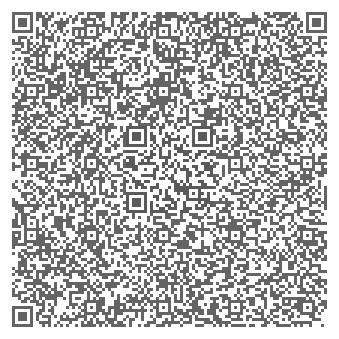
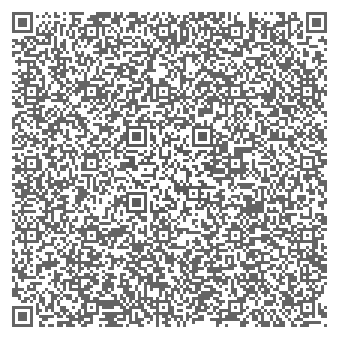
add   ∈ ₥ 🍪 ɉ 🕯     🎄 🕒 𝔭 ዙ 🎄 ฿ ∈ ✝     ᚸ ᛖ 🎄 ى     ℰ Đ 🕯 ✝ 🕯 ❄  ₦      🎅 🦌 🎁

diff --git a/examples/Examples.html b/examples/Examples.html
@@ -2,13 +2,15 @@
 <table border=1 style='font-family:"Arial"; font-size:70%'><tr><th>Crypto function <th> Minimum school grade <th width=40%> Encrypted output <th> Command line
 <tr><td>emoji_alphabet()<td style="text-align:center">1<td>Ṭ&nbsp;⭕&nbsp;₱&nbsp;&nbsp;&nbsp;&nbsp;&nbsp;💰&nbsp;📧&nbsp;©&nbsp;ᚱ&nbsp;📧&nbsp;Ṭ&nbsp;❗&nbsp;&nbsp;&nbsp;&nbsp;&nbsp;ᵺ&nbsp;∈&nbsp;&nbsp;&nbsp;&nbsp;&nbsp;💰&nbsp;௰&nbsp;∈&nbsp;モ&nbsp;ʦ&nbsp;&nbsp;&nbsp;&nbsp;&nbsp;🅰&nbsp;ᚱ&nbsp;∈&nbsp;&nbsp;&nbsp;&nbsp;&nbsp;ዙ&nbsp;🆔&nbsp;Đ&nbsp;∈&nbsp;И&nbsp;&nbsp;&nbsp;&nbsp;&nbsp;ᶙ&nbsp;ℕ&nbsp;ԃ&nbsp;📧&nbsp;®&nbsp;&nbsp;&nbsp;&nbsp;&nbsp;ℽ&nbsp;💍&nbsp;⛎&nbsp;ᚱ&nbsp;&nbsp;&nbsp;&nbsp;&nbsp;ᆮ&nbsp;ℏ&nbsp;🃑&nbsp;ℹ&nbsp;ᚱ&nbsp;❕&nbsp;
 <td>crypto_puzzles.py -T e --grade 1 "Top secret! The sweets are hidden under your chair!"
+<tr><td>emoji_alphabet_xmas()<td style="text-align:center">1<td>✝&nbsp;🍪&nbsp;₱&nbsp;&nbsp;&nbsp;&nbsp;&nbsp;ى&nbsp;ℰ&nbsp;¢&nbsp;ℜ&nbsp;ℰ&nbsp;✝&nbsp;❕&nbsp;&nbsp;&nbsp;&nbsp;&nbsp;ᵺ&nbsp;ℰ&nbsp;&nbsp;&nbsp;&nbsp;&nbsp;⑀&nbsp;௰&nbsp;€&nbsp;∈&nbsp;ʦ&nbsp;&nbsp;&nbsp;&nbsp;&nbsp;🎄&nbsp;Ɽ&nbsp;ℰ&nbsp;&nbsp;&nbsp;&nbsp;&nbsp;ℏ&nbsp;🆔&nbsp;🌛&nbsp;ℰ&nbsp;₦&nbsp;&nbsp;&nbsp;&nbsp;&nbsp;ᶙ&nbsp;ℕ&nbsp;Đ&nbsp;ℰ&nbsp;ℜ&nbsp;&nbsp;&nbsp;&nbsp;&nbsp;Ӳ&nbsp;🍪&nbsp;ᶙ&nbsp;Ȑ&nbsp;&nbsp;&nbsp;&nbsp;&nbsp;𝄴&nbsp;ℏ&nbsp;🎄&nbsp;🕯&nbsp;Ȑ&nbsp;❕&nbsp;&nbsp;🎅&nbsp;🦌&nbsp;🎁&nbsp;
+<td>crypto_puzzles.py -T x --grade 1 "Top secret! The sweets are hidden under your chair!"
 <tr><td>emoji_alphabet_animals()<td style="text-align:center">1<td>🦖&nbsp;🐙&nbsp;🦜&nbsp;&nbsp;&nbsp;&nbsp;&nbsp;&nbsp;🦂&nbsp;🐘&nbsp;ᆮ&nbsp;🐀&nbsp;🐘&nbsp;🐅&nbsp;❕&nbsp;&nbsp;&nbsp;&nbsp;&nbsp;🐅&nbsp;🐹&nbsp;🐘&nbsp;&nbsp;&nbsp;&nbsp;&nbsp;🦢&nbsp;🐋&nbsp;🐘&nbsp;🐘&nbsp;🐅&nbsp;🕷&nbsp;&nbsp;&nbsp;&nbsp;&nbsp;🐜&nbsp;🐀&nbsp;🐘&nbsp;&nbsp;&nbsp;&nbsp;&nbsp;🐹&nbsp;⌶&nbsp;🐉&nbsp;🐉&nbsp;🐘&nbsp;ᾗ&nbsp;&nbsp;&nbsp;&nbsp;&nbsp;ᶙ&nbsp;♑&nbsp;🐬&nbsp;🐘&nbsp;🐀&nbsp;&nbsp;&nbsp;&nbsp;&nbsp;Ӳ&nbsp;🐙&nbsp;⛎&nbsp;🐀&nbsp;&nbsp;&nbsp;&nbsp;&nbsp;☪&nbsp;🐹&nbsp;🐜&nbsp;ï&nbsp;🐀&nbsp;❗&nbsp;
 <td>crypto_puzzles.py -T E --grade 1 "Top secret! The sweets are hidden under your chair!"
-<tr><td>upside_down()<td style="text-align:center">1<td>do⊥ ¡ʇǝɹɔǝs ǝɥ⊥ sʇǝǝʍs ǝɹɐ uǝppᴉɥ ɹǝpun ɹnoʎ ¡ɹᴉɐɥɔ 
+<tr><td>upside_down()<td style="text-align:center">1<td>do⊥ ¡ʇǝɹɔǝs ǝɥ⊥ sʇǝǝʍs ǝɹɐ uǝppᴉɥ ɹǝpun ɹnoʎ ¡ɹᴉɐɥɔ  🙃 
 <td>crypto_puzzles.py -T U --grade 1 "Top secret! The sweets are hidden under your chair!"
-<tr><td>upside_down()<td style="text-align:center">2<td>Top ¡ʇǝɹɔǝs The sʇǝǝʍs are uǝppᴉɥ under ɹnoʎ chair! 
+<tr><td>upside_down()<td style="text-align:center">2<td>Top ¡ʇǝɹɔǝs The sʇǝǝʍs are uǝppᴉɥ under ɹnoʎ chair!  🙃 
 <td>crypto_puzzles.py -T U --grade 2 "Top secret! The sweets are hidden under your chair!"
-<tr><td>upside_down()<td style="text-align:center">5<td>T[o[p: ؛¡:ʇ؛ǝ¡ɹ/ɔ)ǝ-s T]h*e] ‾s‾ʇ'ǝ[ǝ*ʍ[s a|r.e[ )u/ǝ]p(p-ᴉ¡ɥ u|n(d,e_r: |ɹ(n'o‾ʎ c;h!a|i-r,!| 
+<tr><td>upside_down()<td style="text-align:center">5<td>T[o[p: ؛¡:ʇ؛ǝ¡ɹ/ɔ)ǝ-s T]h*e] ‾s‾ʇ'ǝ[ǝ*ʍ[s a|r.e[ )u/ǝ]p(p-ᴉ¡ɥ u|n(d,e_r: |ɹ(n'o‾ʎ c;h!a|i-r,!|  🙃 
 <td>crypto_puzzles.py -T U --grade 5 "Top secret! The sweets are hidden under your chair!"
 <tr><td>figlet()<td style="text-align:center">1<td><pre>
 Here's just a bunch of underscores, pipes, slahes, backslashes and brackets:   _ | / \ ( ) _ | / \ ( ) 

diff --git a/crypto_puzzles.py b/crypto_puzzles.py
@@ -225,6 +225,36 @@ emoji_letter_multiple['le'] ='ᇉ' # korean
 emoji_letter_multiple['lc'] ='ᇆ'
 # too small: 𝆮 ?
 
+############################################################
+emoji_letter_xmas={}
+emoji_letter_xmas['a'] ='🎄'
+emoji_letter_xmas['b'] ='฿,𝔅,ᛒ,ℬ,ط'
+emoji_letter_xmas['c'] ='¢,℃,𝄴'
+emoji_letter_xmas['d'] ='🌛,ԃ,Đ'
+emoji_letter_xmas['e'] ='€,∈,ℰ,モ' 
+emoji_letter_xmas['f'] ='℉,ƒ,₣,ᚩ'
+emoji_letter_xmas['g'] ='Ⓖ,Ǥ,ﻮ,Ꮆ,₲'
+emoji_letter_xmas['h'] ='ℏ,ዙ,ᚺ'
+emoji_letter_xmas['i'] ='🕯'
+emoji_letter_xmas['j'] ='ɉ,ʝ,𝔧,ڸ'
+emoji_letter_xmas['k'] ='Ⓚ,₭,㉿,ᛕ'
+emoji_letter_xmas['l'] ='🕒,🛴,Ⱡ,ட' 
+emoji_letter_xmas['m'] ='ℳ,₥,𝔐,ற,ᛖ'
+emoji_letter_xmas['n'] ='ℕ,И,🅽,ŋ,ᾗ,₦'
+emoji_letter_xmas['o'] ='🍪,❄ '
+emoji_letter_xmas['p'] ='₱,₱,₽,𝔭,ᚹ'
+emoji_letter_xmas['q'] ='Ǭ,Ɋ,𝔮'
+emoji_letter_xmas['r'] ='Ȑ,Ɽ,ℜ,ℛ,ᚱ'
+emoji_letter_xmas['s'] ='⑀,ى' # small 💵?
+emoji_letter_xmas['t'] ='✝'
+emoji_letter_xmas['u'] ='ᶙ'
+emoji_letter_xmas['v'] ='♈'
+emoji_letter_xmas['w'] ='〰,₩,௰' # not like w on some systems: 🔱
+emoji_letter_xmas['x'] ='✖,⤫,𝔛,྾,ᚸ' # 🙅♀ is bad because sometimes displayed as '🙅♀♀' in ubuntu (broken grapheme clustering?)
+emoji_letter_xmas['y'] ='¥,Ŷ,⑂,ℽ,Ỿ,Ӳ'
+emoji_letter_xmas['z'] ='Ƶ,ʑ,ɀ,💤,ᶽ'
+
+############################################################
 
 # Emoji animal alphabet, works in english and german 
 # include the disputed in a hard version someday
@@ -537,6 +567,7 @@ def upside_down(text, language, grade, upside_down_rate=0):
     # workaround for chars not properly displayed on QR reader of iOS 13.4.1
     outtext = outtext.replace('ꞁ', '|') # l
     outtext = outtext.replace('Ꞁ', '˥') # L
+    outtext += " 🙃 "
     return outtext, hint
 
 
@@ -1326,8 +1357,39 @@ def emoji_alphabet(intext, language, grade):
         else:
             outtext_new += char + spacing
             
+    return outtext_new, ""
+
+def emoji_alphabet_xmas(intext, language, grade):
+
+    # top secret => 🔝  💰 € ☪ ® 📧 ȶ   🎅🎅🎅🎅
+             
+    outtext=intext.lower()
+
+    # +' ' to have a space between emoji because kerning is wrong on some platforms
+    spacing=' '
+    if spacing:
+        outtext = outtext.replace(' ', '  ')
+
+    # multiple letters at once, e.g. "id" => 🆔
+    # use .replace()
+    for multi_letter in emoji_letter_multiple:
+        outtext = outtext.replace(multi_letter, random.choice(emoji_letter_multiple[multi_letter].split(','))  )
+
+    # single letters, 
+    # iterate over text
+    outtext_new=""
+    for char in outtext:
+
+        if char in emoji_letter_xmas:
+            # choose random letter of multiple e.g. m=Ⓜ 〽 ♏ 
+            outtext_new += random.choice(emoji_letter_xmas[char].split(',')) + spacing
+        elif char in emoji_letter:
+            # choose random letter of multiple e.g. m=Ⓜ 〽 ♏ 
+            outtext_new += random.choice(emoji_letter[char].split(',')) + spacing
+        else:
+            outtext_new += char + spacing
             
-            
+    outtext_new += " 🎅 🦌 🎁 "
     return outtext_new, ""
 
 def emoji_alphabet_animals(intext, language, grade):
@@ -1804,6 +1866,9 @@ def main():
         elif technique == "e":
             worktext, hint = emoji_alphabet(worktext, language, grade)
             function_name = "emoji_alphabet"
+        elif technique == "x":
+            worktext, hint = emoji_alphabet_xmas(worktext, language, grade)
+            function_name = "emoji_alphabet_xmas"
         elif technique == "E":
             worktext, hint = emoji_alphabet_animals(worktext, language, grade)
             function_name = "emoji_alphabet_animals"

diff --git a/cgi-bin/crypto_puzzles_web.py b/cgi-bin/crypto_puzzles_web.py
@@ -10,6 +10,7 @@ import crypto_puzzles
 
 # TODO: somehow get the order of handling multiple functions right, e.g. first rot13, then qr_code bec won't work the other way around
 function_list=[
+"emoji_alphabet_xmas",
 "emoji_alphabet",
 "emoji_alphabet_animals",
 "insert_noise",
@@ -106,7 +107,7 @@ if form.getvalue('message'):
     collect_html += ('</ul>')
 
     worktext_escaped = html.escape(worktext) 
-    if function == "emoji_alphabet":
+    if function == "emoji_alphabet" or function == "emoji_alphabet_xmas":
         worktext_escaped = worktext_escaped.replace(' ', '&nbsp;')
 
     # multiline text gets different format:

diff --git a/create_examples.py b/create_examples.py
@@ -8,7 +8,7 @@ import os
 import argparse
 
 # techniques used via --technique param of crypto_puzzles.py (also determines the order they appear in the resulting page)
-techniques='eEUflWuSCc1A3MNQ'
+techniques='exEUflWuSCc1A3MNQ'
 # unused for various reasons: techniques='Lmnj'
 # technique 's' doesn't work here, 'm' boring
 
